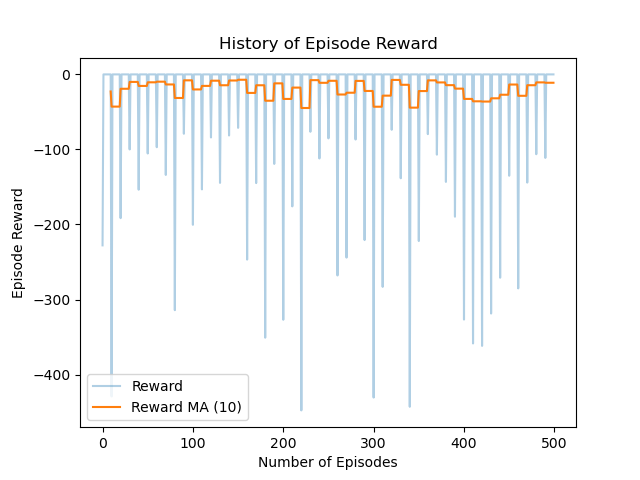
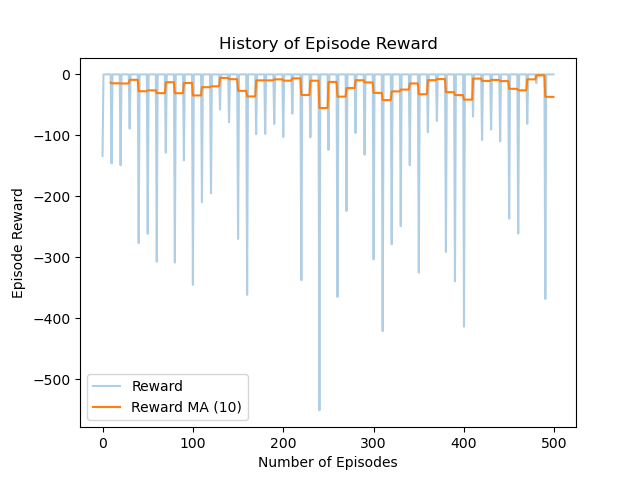
inneficient REINFORCE learning. Need to combine with a2c and optimize

diff --git a/Project_3/A2C/train.py b/Project_3/A2C/train.py
@@ -76,6 +76,9 @@ def test_actor(actor, env, obs_normalizer, i_episode):
     state = torch.tensor(normalize_observation(raw_state, obs_normalizer), dtype=torch.float32)
     episode_states = []
     episode_actions = []
+    episode_ends = []
+    episode_reward = 0.0
+
     episode_rewards = []
     episode_terminated = False
     episode_truncated = False
@@ -83,7 +86,7 @@ def test_actor(actor, env, obs_normalizer, i_episode):
     action_batch = torch.tensor([0])
     if i_episode % 10 == 0:
         with torch.no_grad():
-            for _ in range(config["max_ep_steps"]):
+            for iteration in range(config["max_ep_steps"]):
                 if episode_terminated or episode_truncated:
                     break
                 # Interact with the environment for one step and record the transition
@@ -92,24 +95,24 @@ def test_actor(actor, env, obs_normalizer, i_episode):
                 # to build returns and losses.
 
                 # Take action and update env
-                normalized_state = normalize_observation(state, obs_normalizer)
-                state_tensor = torch.tensor(normalized_state, dtype=torch.float32)
-                # print("getting action")
-                action = actor.get_action(state_tensor, True)
-                # print(f"action {action} acquired")
-                # action = actor.get_action(state, deterministic=True)
+                action = actor.get_action(state, False)
                 next_state, reward, episode_terminated, episode_truncated, info = step_env(env, action)
+                
+                episode_rewards.append(reward)
+                episode_actions.append(action)
+                if iteration == 0:
+                    state_batch: torch.tensor = state
+                    action_batch = torch.tensor(action)
+                state_batch = torch.vstack([state_batch, state])
+                action_batch = torch.vstack([action_batch, torch.tensor(action)])
+                episode_ends.append(int(episode_terminated | episode_truncated))
+
                 obs_normalizer.update(next_state)
                 next_state = torch.tensor(normalize_observation(next_state, obs_normalizer), dtype=torch.float32)
-                
-                # Store data
-                episode_rewards.append(reward)
-                episode_states.append(next_state)
-                episode_actions.append(action)
-                state_batch = torch.vstack([state_batch, next_state])
-                action_batch = torch.vstack([action_batch, torch.tensor(action)])
-
                 state = next_state
+                # Store data
+                # episode_states.append(next_state)
+                episode_reward += reward
             # Convert the collected episode data into batched tensors
             # print(state_batch)
             state_batch = state_batch[1:]
@@ -127,7 +130,7 @@ def test_actor(actor, env, obs_normalizer, i_episode):
 
             # Policy gradient update
             actor_loss = compute_actor_loss(chosen_log_probs, return_batch, config['grad_norm_clip'])
-            actor_loss.requires_grad = True
+            # actor_loss.requires_grad = True
 
             print(f"actor_loss for episode {i_episode} in testing: {actor_loss}")
             print(f"Total reward: {np.sum(episode_rewards)}")
@@ -188,7 +191,7 @@ def train_actor_critic(config_path=None, plot=True):
 
         # Begin iterating through time 
         # This is to prevent pathological cases where the episode never ends, we limit the number of steps per episode to max_ep_steps, but in practice for lunar lander it should end well before that
-        for _ in range(config["max_ep_steps"]):
+        for iteration in range(config["max_ep_steps"]):
             if episode_terminated or episode_truncated:
                 break
             # TODO: Interact with the environment for one step and record the transition
@@ -199,19 +202,22 @@ def train_actor_critic(config_path=None, plot=True):
             # Take action and update env
             action = actor.get_action(state, False)
             next_state, reward, episode_terminated, episode_truncated, info = step_env(env, action)
+            
+            episode_rewards.append(reward)
+            episode_actions.append(action)
+            if iteration == 0:
+                state_batch: torch.tensor = state
+                action_batch = torch.tensor(action)
+            state_batch = torch.vstack([state_batch, state])
+            action_batch = torch.vstack([action_batch, torch.tensor(action)])
+            episode_ends.append(int(episode_terminated | episode_truncated))
+
             obs_normalizer.update(next_state)
             next_state = torch.tensor(normalize_observation(next_state, obs_normalizer), dtype=torch.float32)
-            done = int(episode_terminated | episode_truncated)
-
             # Store data
-            episode_rewards.append(reward)
-            episode_states.append(next_state)
-            episode_actions.append(action)
+            # episode_states.append(next_state)
             episode_reward += reward
-            state_batch = torch.vstack([state_batch, next_state])
-            action_batch = torch.vstack([action_batch, torch.tensor(action)])
-            episode_ends.append(done)
-
+            
             state = next_state
 
         # Convert the collected episode data into batched tensors
@@ -246,7 +252,7 @@ def train_actor_critic(config_path=None, plot=True):
             # Policy-gradient update for REINFORCE
             # Policy gradient update
             actor_loss = compute_actor_loss(chosen_log_probs, return_batch, config['grad_norm_clip'])
-            actor_loss.requires_grad = True
+            # actor_loss.requires_grad = True
             # Backpropagation & optimization
             # Clear any stale actor gradients before backpropagation
             # Hint: Optimizers in PyTorch accumulate gradients unless you reset them.

diff --git a/Project_3/A2C/actor.py b/Project_3/A2C/actor.py
@@ -60,9 +60,8 @@ class Actor(nn.Module):
 
         #TODO Fill your code
         # Forward pass
-        with torch.no_grad(): # In order to not include the gradient function to save time and computation
-            # action_logits = self(states) 
-            action_logits = self.forward(states)
+        # with torch.no_grad(): # In order to not include the gradient function to save time and computation
+        action_logits = self(states)
         
         # A logit is a bijective function that maps probabilities ([0,1])
         # Can be articulated is pi_theta(a_i, s_i) in math
@@ -72,32 +71,34 @@ class Actor(nn.Module):
         # Hint: You will need these when measuring how uncertain the policy is.
         # This portion uses what the model has learned to predict the likely best next action
         # Specifically considering the current state 
-        # action_probs = self(state)
         dist = Categorical(action_logits)
 
         # TODO: Convert the raw outputs into log-probabilities
         # Hint: The loss is written in terms of log probabilities rather than plain probabilities.
         # The log probablities of all possible actions
         # log pi_theta(a|s)
-        # log_action_probs = torch.log1p(action_logits)
-        log_action_probs = dist.log_prob(actions.transpose(0, 1)).flatten()
+        # log_action_probs = dist.log_prob(actions.transpose(0, 1)).flatten()
 
-        # 
-        action_oh = torch.zeros([len(actions),4])
-        chosen_log_prob = torch.zeros([len(actions),4])
+        # # 
+        # action_oh = torch.zeros([len(actions),4])
+        # chosen_log_prob = torch.zeros([len(actions),4])
         # [row][column]
         
 
         # Mark which action was selected at each step
         # Hint: The provided `action` tensor contains indices, but you need a representation
         # that can isolate one action per row from the full action distribution.
-        n=0
-        for action in actions:
-            action_oh[n][action] = torch.tensor(1.) # assuming action is an integer from 0-3
-            chosen_log_prob[n] = log_action_probs[n] * action_oh[n]
-            n+=1
+        # n=0
+        # for action in actions:
+        #     action_oh[n][action] = torch.tensor(1.) # assuming action is an integer from 0-3
+        #     chosen_log_prob[n] = log_action_probs[n] * action_oh[n]
+        #     n+=1
 
         # print(f"action_oh = {action_oh}")
+
+        actions = actions.view(-1)
+        chosen_log_probs = dist.log_prob(actions)
+
 
 
         # action_oh stands for action_one-hot
@@ -122,7 +123,7 @@ class Actor(nn.Module):
         # print(f"categoric: {dist.probs[0]}")
         # print(f"entropy:   {entropy[0]}")
 
-        return chosen_log_prob, entropy
+        return chosen_log_probs, entropy
     
     def get_action(self, state, deterministic):
         # Run the policy on a single state - Forward pass
@@ -135,18 +136,23 @@ class Actor(nn.Module):
                 # print("running deterministic")
                 # Choose the best action
                 # consider logits and choose one with the highest probability to be chosen action
-                action = torch.argmax(logits)
-                dist = Categorical(logits)
+                # action = torch.argmax(logits)
+                # dist = Categorical(logits)
                 
-                action = dist.sample()
+                # action = dist.sample()
+                action = int(torch.argmax(logits).item())
+
 
                 # print(f"LOGITS:    {logits}")
                 # print(f"ACTION:    {action}")
 
             else: # stochastic, randomly choose an action 
-                dist = Categorical(logits)
+                # dist = Categorical(logits)
                 
-                action = dist.sample()
+                # action = dist.sample()
+
+                dist = Categorical(logits)
+                action = int(dist.sample().item())
                 # action = random.randrange(0, 4, 1) # choose a random action [0,1,2,3]
 
         # categorical function can give categorical distribution from softmax 

diff --git a/Project_3/A2C/compute_objectives.py b/Project_3/A2C/compute_objectives.py
@@ -65,14 +65,14 @@ def compute_actor_loss(chosen_log_probs, advantage_batch, grad_bounds=None):
 
     # Second term Gt or At is advantage_batch 
     # Determines how strongly to reinforce the direction taken by policy gradient
-    advantage_batch = normalize_advantage(advantage_batch)
+    # advantage_batch = normalize_advantage(advantage_batch)
 
-    grad = torch.mean(chosen_log_probs * advantage_batch)
-    grad = torch.clamp(grad, min=-grad_bounds, max=grad_bounds)
-    return grad
+    # grad = -torch.mean(chosen_log_probs * advantage_batch)
+    # grad = torch.clamp(grad, min=-grad_bounds, max=grad_bounds)
+    # return grad
 
-    # actor_loss = -(chosen_log_probs * advantage_batch.detach()).mean()
-    # return actor_loss
+    actor_loss = -(chosen_log_probs * advantage_batch.detach()).mean()
+    return actor_loss
 
 def compute_critic_loss(return_batch, value_batch, value_loss_coeff):
     """Compute the MSE of the advantage"""
